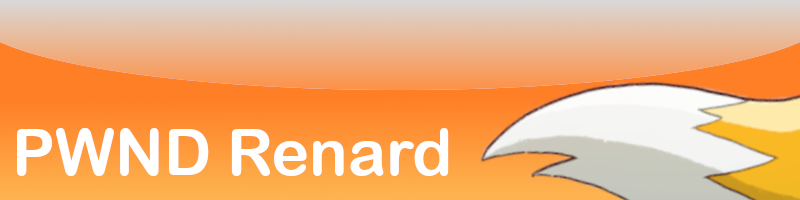
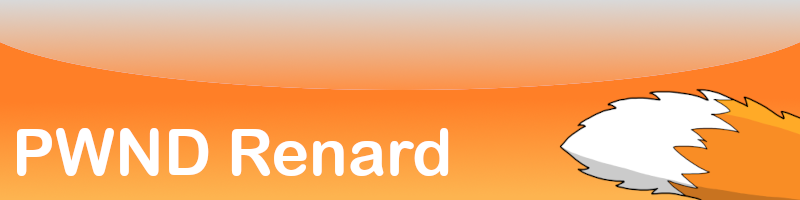
Add files via upload

Changed region(s): [[0.5938, 0.39, 1.0, 1.0]]

diff --git a/index.htm b/index.htm
@@ -17,7 +17,7 @@
 				<TH width="196" height="1000" bgcolor="#ff9500" align="left" valign="top">
 					<font color="white" size="-2">
 						<UL style="LIST-STYLE-IMAGE: url(nav/fleche.gif)">
-							Nouvelles du site: L'image du site (en haut) est présentement juste une image de référence que j'ai collé ensemble. Ce n'est pas le produit final. (septembre)<BR>&nbsp;<BR>
+							Nouvelles du site: Rien pour l'instant :)<BR>&nbsp;<BR>
 							<B>PWND Renard</B>
 							<LI><A style="COLOR: #ffffff; TEXT-DECORATION: none" href="WAP/mobile.htm" >Site Mobile</A>
 							<LI><A style="COLOR: #ffffff; TEXT-DECORATION: none" href="nouvelles.xml" >Nouvelles du site (RSS)</A></LI>
